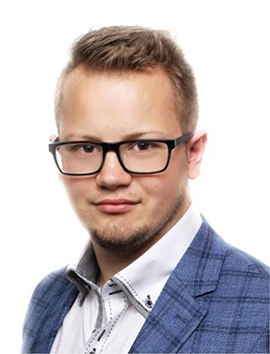
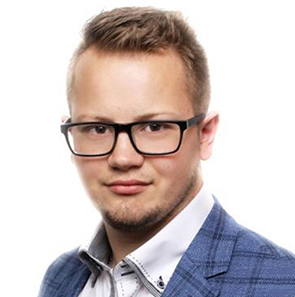
improving the appearance of the page

diff --git a/index.html b/index.html
@@ -5,6 +5,7 @@
     <meta name="viewport" content="width=device-width, initial-scale=1.0" />
     <title>Tomasz Warzeszak - Strona Domowa</title>
     <link href="style.css" rel="stylesheet" type="text/css" />
+    <link href="https://fonts.googleapis.com/css2?family=Raleway:wght@700&display=swap" rel="stylesheet">
   </head>
 
   <body>
@@ -12,23 +13,30 @@
       <a href="index.html">Strona Główna</a>
       <a href="Tydzien1.html">Tydzień 1</a>
       <a href="Tydzien2.html">Tydzień 2</a>
+      <a href="Tydzien3.html">Tydzień 3</a>
     </nav>
     <header class="header">
-      <h1>Tomasz Warzeszak</h1>
+      <h1>TW PROJECT</h1>
     </header>
-    <main>
-      <section class="about-me">
-        <img src="fotoImage.jpg" alt="Zdjęcie profilowe">
-        <h2>Kim Jestem ?</h2>
-        <p>
-          Cześć! mam na imię Tomek jestem pasjonatem fotografii oraz filmowania
-          z drona. Bardzo lubię również uprawiać sport np. bieganie, jazda na
-          rowerze lub grać w siatkówkę. Poza pasjami na co dzień pracuję w
-          drukarni oraz biorę udział w szkoleniu WTF: co ten frontend ?.<br /><br />
+    <main class="main">
+      <section class="author">
+        <section class="image">
+          <img class="fotoImage" src="fotoImage.jpg" alt="Zdjęcie profilowe" />
+        </section>
+        <section class="about-me">
+          <h2>Kim Jestem ?</h2>
+          <p>
+            Cześć! mam na imię Tomek jestem pasjonatem fotografii oraz
+            filmowania z drona. Bardzo lubię również uprawiać sport np.
+            bieganie, jazda na rowerze lub grać w siatkówkę. Poza pasjami na co
+            dzień pracuję w drukarni oraz biorę udział w szkoleniu WTF: co ten
+            frontend ?.<br /><br />
 
-          Na tej stronie będę publikował notatki z danego tygodnia nauki.
-        </p>
+            Na tej stronie będę publikował notatki z danego tygodnia nauki.
+          </p>
+        </section>
       </section>
+
       <section class="notes">
         <h2>Notatki z WTF: co ten frontend ?</h2>
 
@@ -44,18 +52,42 @@
         <article class="notesArticle">
           <h3>Tydzień 1:</h3>
           <p>
-            w tym tygodniu poznaliśmy podstawy budowy stron internetowych,
+            W tym tygodniu poznaliśmy podstawy budowy stron internetowych,
             pierwsze informacje na temat języków, którymi będziemy się
             posługiwali oraz sposób posługiwania się narzędziami developerskimi
             wbudowanymi w przeglądarkę.
           </p>
           <a href="Tydzien1.html"> <b> Przejdź do Tygodnia 1</b></a>
         </article>
+        <article class="notesArticle">
+          <h3>Tydzień 2:</h3>
+          <p>
+            W tym tygodniu poznaliśmy podstawy budowy stron internetowych,
+            pierwsze informacje na temat języków, którymi będziemy się
+            posługiwali oraz sposób posługiwania się narzędziami developerskimi
+            wbudowanymi w przeglądarkę.
+          </p>
+          <a href="Tydzien2.html"> <b> Przejdź do Tygodnia 2</b></a>
+        </article>
+        <article class="notesArticle">
+          <h3>Tydzień 3:</h3>
+          <p>
+            W tym tygodniu poznaliśmy podstawy budowy stron internetowych,
+            pierwsze informacje na temat języków, którymi będziemy się
+            posługiwali oraz sposób posługiwania się narzędziami developerskimi
+            wbudowanymi w przeglądarkę.
+          </p>
+          <a href="Tydzien3.html"> <b> Przejdź do Tygodnia 3</b></a>
+        </article>
       </section>
+
     </main>
-    <footer>
-      Strona domowa Tomasza Warzeszak. Wszystkie treści są efektem szkolenia
-      WTF: co ten frontend ?
+    <footer class="footer">
+      <p>
+        <b>&copy; Strona domowa Tomasza Warzeszak. Wszystkie treści są efektem
+          szkolenia WTF: co ten frontend ?</b
+        >
+      </p>
     </footer>
     <script src="script.js"></script>
   </body>

diff --git a/style.css b/style.css
@@ -1,35 +1,94 @@
 body {
+  margin: 0;
   background-color: #bdbdbd;
 }
 
+.main{
+  width: 1000px;
+  margin: 0 auto;
+  font-family: 'Calibri', sans-serif;
+}
+
 p{
+  font-size: 18px;
   color: #313645;
 }
 
-.header {
-  font-size: 22px;
-  color: #0D0E25;
+/* Nawigacja*/
+
+.navigation{
+  background-color: #E6E6E6;
+  width: 100%;
+  text-align: center;
+  height: 60px;
 }
 
 .navigation a {
-  padding: 10px;
-  font-size: 18px;
+  display: inline-block;
+  width: 180px;
+  font-family: 'Calibri',  sans-serif;
+  padding: 14px 0;
+  font-size: 25px;
   color: black;
-  background-color: #E6E6E6;
   text-decoration: none;
+  border-radius: 25px;
+}
+.navigation a:hover{
+  background-color: rgb(214, 214, 214);
+ 
+}
+
+
+/*nagłówek*/
+
+.header {
+  font-family: 'Raleway', sans-serif;
+  font-size: 22px;
+  color: #0D0E25;
+  text-align: center;
+}
+
+/*o autorze*/
+.author{
+  margin-top: 60px;
+  position: relative;
+}
+
+.about-me{
+
+  width: 50%;
+  position: absolute;
+  right: 0;
+  top: 0;
 }
 
 .about-me h2 {
+  text-align: center;
   color: #E3170A;
   font-size: 25px;
 }
 
 .about-me p {
-
-  font-size: 14px;
+  font-size: 19px;
 }
 
+.image{
+  text-align: center;
+  width: 50%;
+
+}
+
+.fotoImage{
+  width: 300px;
+  border-radius: 30% 60% 70% 30%/30% 30% 70% 70%;
+}
+
+/*notatki*/
+
 .notes h2 {
+  margin-top: 80px;
+  margin-bottom: 40px;
+  text-align: center;
   font-size: 25px;
   color: #E3170A;;
 }
@@ -39,7 +98,14 @@ p{
   color: rgb(187, 59, 0);
 }
 
-footer{
-  color: white;
+/*stopka*/
+.footer{
+  font-family: 'Verdana', sans-serif;
   background-color: #2B2D42;
+  height: 100px;
+  text-align: center;
+}
+.footer p{
+  padding: 40px 0;
+  color: #ffffff;
 }

diff --git a/Tydzien2.html b/Tydzien2.html
@@ -12,9 +12,10 @@
       <a href="index.html">Strona Główna</a>
       <a href="Tydzien1.html">Tydzień 1</a>
       <a href="Tydzien2.html">Tydzień 2</a>
+      <a href="Tydzien3.html">Tydzień 3</a>
     </nav>
 
-    <main>
+    <main class="main">
       <section>
         <h1>Tydzień 2:</h1>
         <img src="tydzien2.jpg" alt="tydzień 2" />
@@ -94,9 +95,12 @@
         </p>
       </section>
     </main>
-    <footer>
-      Strona domowa Tomasza Warzeszak. Wszystkie treści są efektem szkolenia
-      WTF: co ten frontend ?
+    <footer class="footer">
+      <p>
+        <b>&copy; Strona domowa Tomasza Warzeszak. Wszystkie treści są efektem
+          szkolenia WTF: co ten frontend ?</b
+        >
+      </p>
     </footer>
   </body>
 </html>

diff --git a/Tydzien1.html b/Tydzien1.html
@@ -12,9 +12,10 @@
       <a href="index.html">Strona Główna</a>
       <a href="Tydzien1.html">Tydzień 1</a>
       <a href="Tydzien2.html">Tydzień 2</a>
+      <a href="Tydzien3.html">Tydzień 3</a>
     </nav>
 
-    <main>
+    <main class="main">
       <section>
         <h1>Tydzień 1:</h1>
 
@@ -95,9 +96,12 @@
         </p>
       </section>
     </main>
-    <footer>
-      Strona domowa Tomasza Warzeszak. Wszystkie treści są efektem szkolenia
-      WTF: co ten frontend ?
+    <footer class="footer">
+      <p>
+        <b>&copy; Strona domowa Tomasza Warzeszak. Wszystkie treści są efektem
+          szkolenia WTF: co ten frontend ?</b
+        >
+      </p>
     </footer>
   </body>
 </html>
